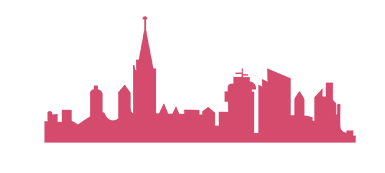
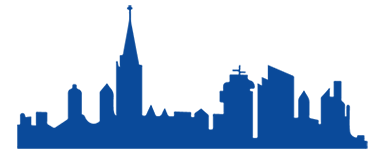
city & town pic

diff --git a/src/screens/getApartment.js b/src/screens/getApartment.js
@@ -1,6 +1,13 @@
 import { Button } from "../model/button.js";
 import { setCurrentScreen } from "../../sketch.js";
-import { cityPic, townPic, drawPlayer, noPic } from "./customizationScreen.js";
+import {
+  cityPic,
+  townPic,
+  drawPlayer,
+  noPic,
+  townPicStroke,
+  cityPicStroke,
+} from "./customizationScreen.js";
 import {
   player,
   pushHasCarQuestions,
@@ -60,10 +67,10 @@ function draw() {
   town.mouseOver();
   city.mouseOver();
 
-  townPicture.mouseOver(townPic);
+  townPicture.mouseOver(townPicStroke);
   townPicture.display(townPic);
 
-  cityPicture.mouseOver(cityPic);
+  cityPicture.mouseOver(cityPicStroke);
   cityPicture.display(cityPic);
 }
 

diff --git a/src/screens/customizationScreen.js b/src/screens/customizationScreen.js
@@ -43,6 +43,8 @@ export let diverseConsultantChildStroke;
 
 export let townPic;
 export let cityPic;
+export let townPicStroke;
+export let cityPicStroke;
 
 export let noPic;
 export let moneyLarge;
@@ -179,6 +181,8 @@ function preload() {
 
   cityPic = loadImage("./assets/character/cityPic.png");
   townPic = loadImage("./assets/character/townPic.png");
+  cityPicStroke = loadImage("./assets/character/cityPicStroke.png");
+  townPicStroke = loadImage("./assets/character/townPicStroke.png");
 
   noPic = loadImage("./assets/character/noPic.png");
 
